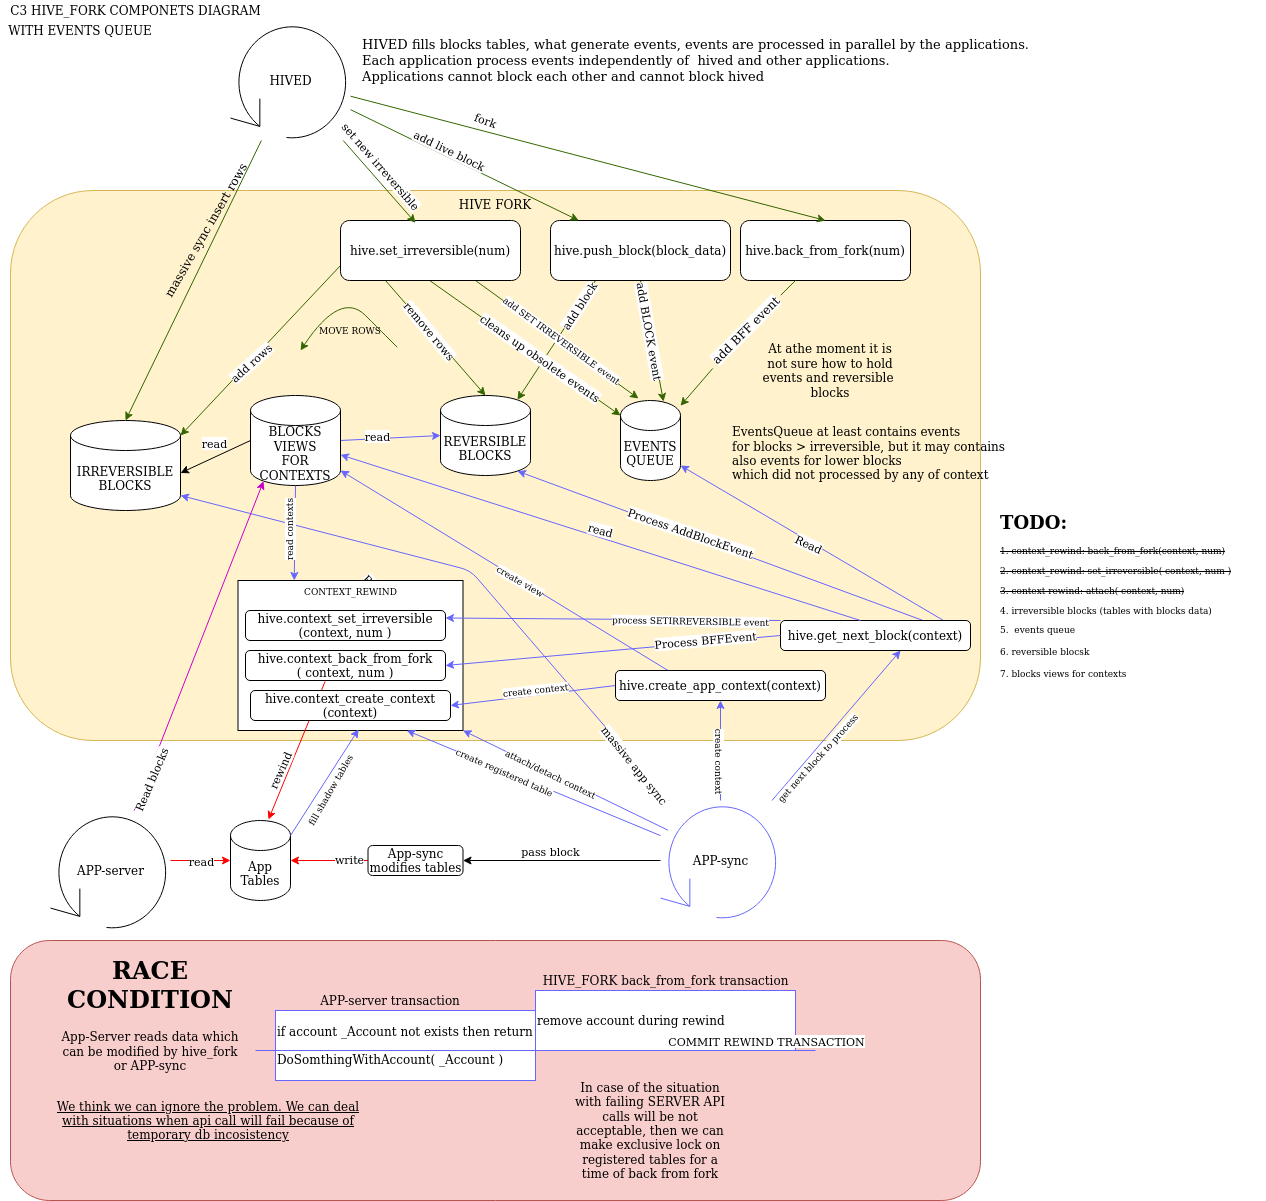
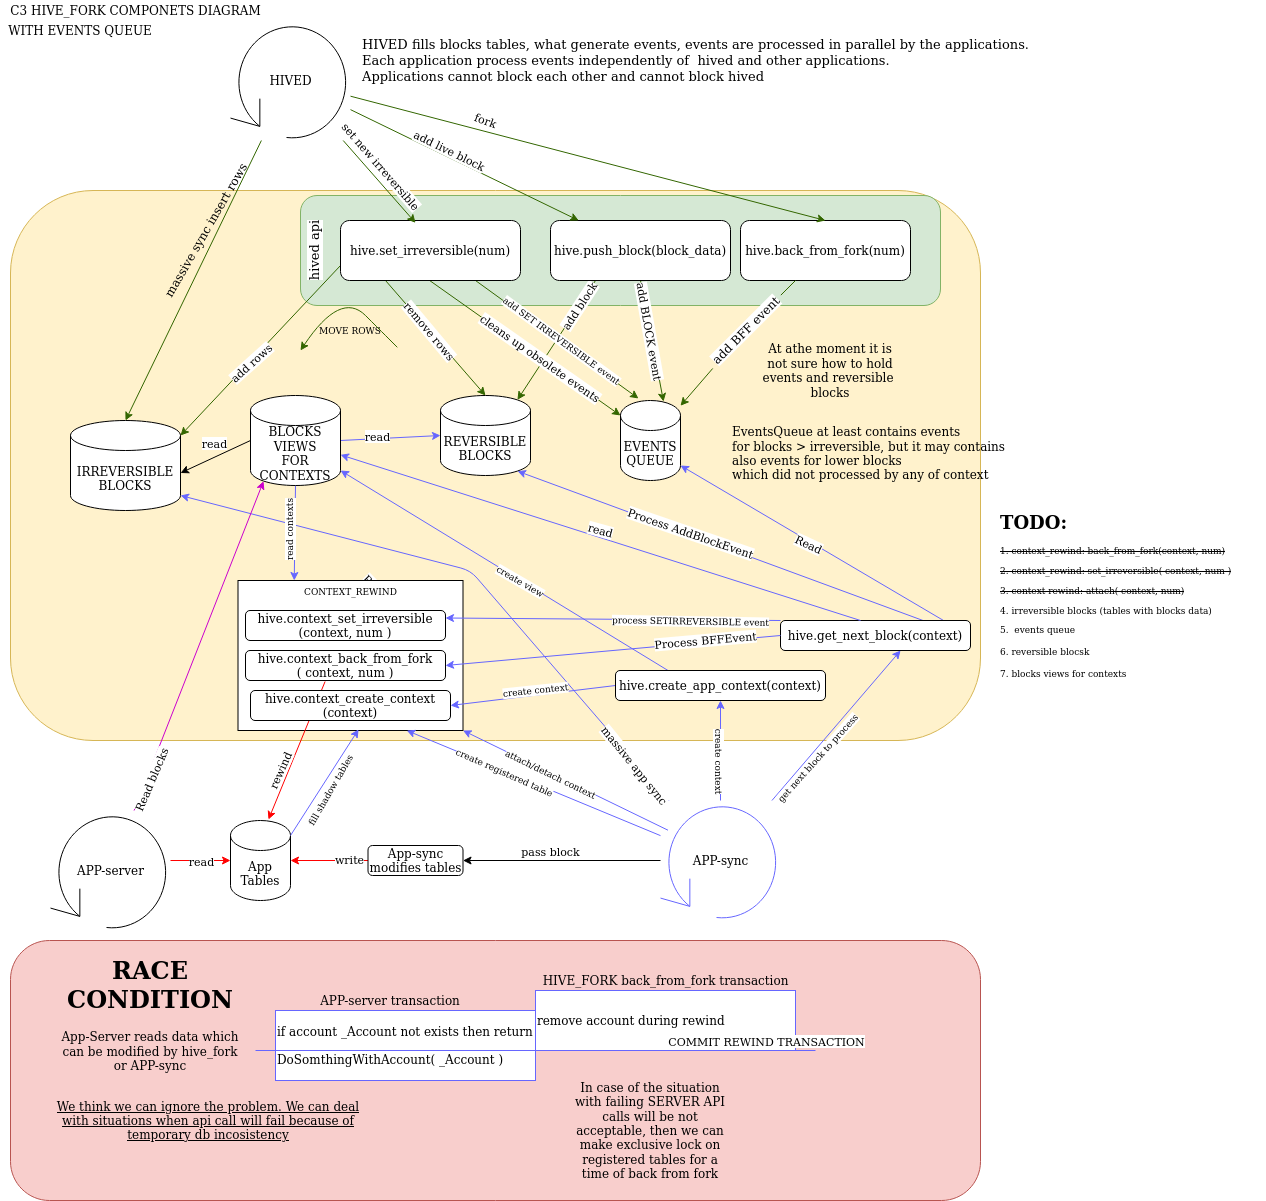
start hived api implementation

Changed region(s): [[0.2156, 0.154, 0.7701, 0.2773]]

diff --git a/src/hive_fork/Readme.md b/src/hive_fork/Readme.md
@@ -39,20 +39,33 @@ When a table is edited its shadow table is automaticly adapted to a new structur
 
 ## Installation
 Execute sql scripts on Your database in given order:
+1. context_rewind/data_schema.sql
+1. context_rewind/event_triggers.sql
+1. context_rewind/register_table.sql
+1. context_rewind/detach_table.sql
+1. context_rewind/back_from_fork.sql
+1. context_rewind/irreversible.sql
+1. context_rewind/rewind_api.sql
 1. data_schema.sql
-1. event_triggers.sql
-1. context.sql
-1. register_table.sql 
-1. detach_table.sql
-1. back_from_fork.sql
+1. hived_api.sql
 
 An example of script execution: `psql -d my_db_name -a -f  data_schema.sql`
 
 ## Database structure
-The script `data_schema.sql` creates all necessary tables in `hive` schema.
+The scripts `data_schema.sql` files create all necessary tables in `hive` schema.
 
-### hive.context
-Used to control currently processed blocks for application's tables registered together in th eone context. 
+### HIVE FORK
+#### hive.events_queue
+
+Columns 
+1. id - id of the event
+2. event - type of the event
+3. block_num - block num that releates to the event
+
+
+### CONTEXT REWIND
+#### hive.context
+Used to control currently processed blocks for application's tables registered together in the one context. 
 
 Columns
 1. id - id of the context
@@ -61,7 +74,7 @@ Columns
 4. irreversible_block - irreversible block num, the higest block known by the context which cannot be reedited during back from fork
 4. is_attached - True if triggers are enabled ( a table is attached ), False when are disbaled ( a table is detached )
 
-### hive.registered_tables
+#### hive.registered_tables
 Contains information about registered application tables and their contexts
 
 Columns
@@ -71,14 +84,7 @@ Columns
 4. shadow_table_name - name of the shadow table name for a registered table
 5. origin_table_columns - names of origin table's columns
 
-### hive.triggers_operations
-Names of operation on origin tables which we can revert
-
-Columns
-1. id - id of the operation
-2. name - name of operation
-
-### hive.triggers
+#### hive.triggers
 Contains informations about triggers created by the extension
 
 Columns
@@ -87,7 +93,7 @@ Columns
 3. trigger_name - trigger name
 4. function_name - function name called by the trigger
 
-### hive.control_status
+#### hive.control_status
 Global information required by the extension functions and trigger
 1. back_from_fork - integral flag, which tell tell the system if back_from_fork is in progress
 2. irreversible_block - irreversible block num, the higest block which cannot be reedited during back from fork
@@ -99,19 +105,30 @@ Columns
 ## SQL API
 The set of scripts implements an API for the applications:
 ### Public - for the user
-#### hive.context_detach( context_name )
+#### HIVED API
+##### hive.back_from_fork( _block_num_before_fork )
+Schedules back from fork
+
+##### hive.push_block( _block_num, block_data )
+Push new block
+
+##### hive.set_irreversible( _block_num )
+Set new irreversible block
+
+#### CONTEXT REWIND
+##### hive.context_detach( context_name )
 Detaches triggers atatched to register tables in a given context
 
-#### hive.context_attach( context_name, block_num )
+##### hive.context_attach( context_name, block_num )
 Enables triggers attached to register tables in a given context and set current context block num 
 
-#### hive.context_create( context_name )
+##### hive.context_create( context_name )
 Creates the context with controll block number on which the registered tables are working
 
-#### hive.context_next_block( context_name )
+##### hive.context_next_block( context_name )
 Moves a context to the next available block
 
-#### hive.context_back_from_fork( context_name, block_num )
+##### hive.context_back_from_fork( context_name, block_num )
 Rewind only tables registered in given context to given block_num
 
 ### Private - shall not be called by the user
